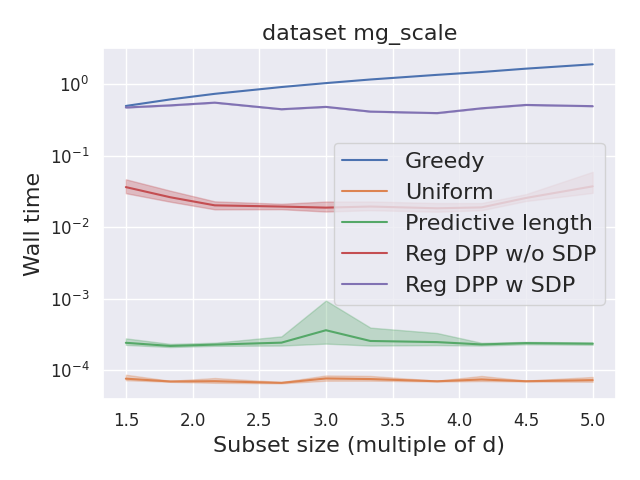
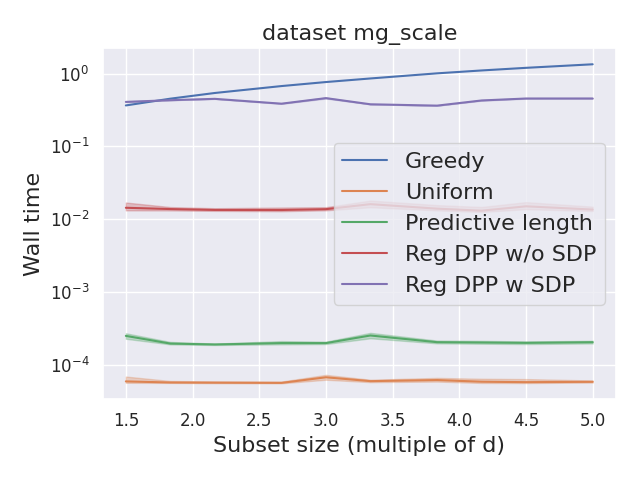
minor upd in sdp

diff --git a/regdpp/sdp.py b/regdpp/sdp.py
@@ -8,8 +8,10 @@ def cp_D_opt_criterion(cov, A: np.ndarray):
 
 
 def get_optimal_weights(X: np.ndarray, A: np.ndarray, size: int, solver="scs") -> np.ndarray:
+    n, d = X.shape
+
     def objective(weights):
-        cov = cp.multiply(weights[:, None], X).T @ X
+        cov = cp.multiply(weights[:, None] @ np.ones((1, d)), X).T @ X
         val = cp_D_opt_criterion(cov, A)
         return val
 
